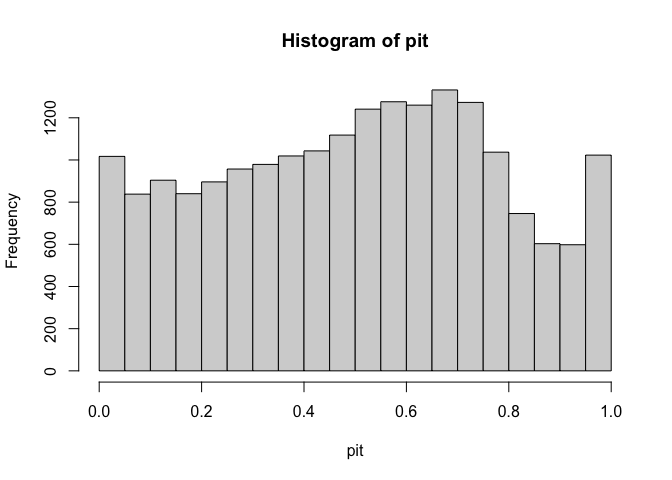
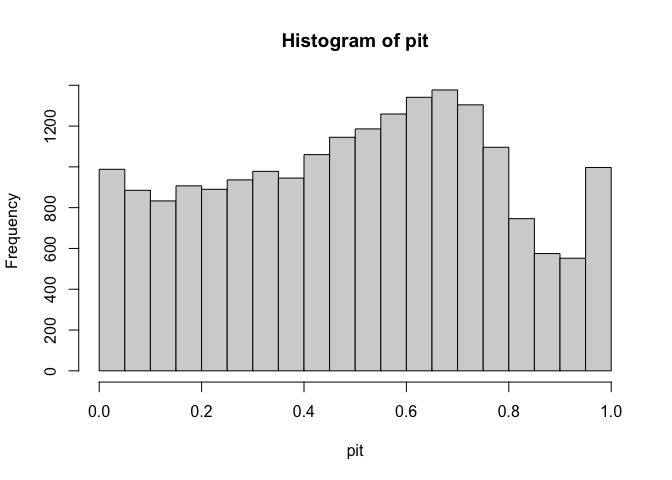
visualizações

diff --git a/README.md b/README.md
@@ -9,7 +9,7 @@
 This package aims to provide post processing methods to recalibrate
 fited models.
 
-<img src="images/recalibratiNN.png" width="407" />
+<img src="images/recalibratiNN.png" width="407" />library(devtools)
 
 ## Installation
 
@@ -52,9 +52,10 @@ y_cal <- y[80001:100000]
 
 mod <- lm(y_test ~ x_test)
 
-pit <- PIT_values(x_cal=x_cal, y_cal=y_cal, model=mod)
+cdf <- CDF_model_lm(x_cal=x_cal, model=mod)
+pit <- PIT_values_lm( y_cal, cdf)
 head(pit)
-#> [1] 0.56208396 0.63054052 0.97502734 0.92887524 0.07526998 0.01665209
+#> [1] 0.68243849 0.27479829 0.02299282 0.02323595 0.45471184 0.53343881
 ```
 
 Then, one can proceed with visualizin this the histogram and testing if
@@ -77,7 +78,7 @@ You can also test if these values fit a uniform distribution.
     #>  Asymptotic two-sample Kolmogorov-Smirnov test
     #> 
     #> data:  pit and runif(10000, -1, 1)
-    #> D = 0.5002, p-value < 2.2e-16
+    #> D = 0.5042, p-value < 2.2e-16
     #> alternative hypothesis: two-sided
 
 in this case we see the distribution doest seem to fit an uniform
